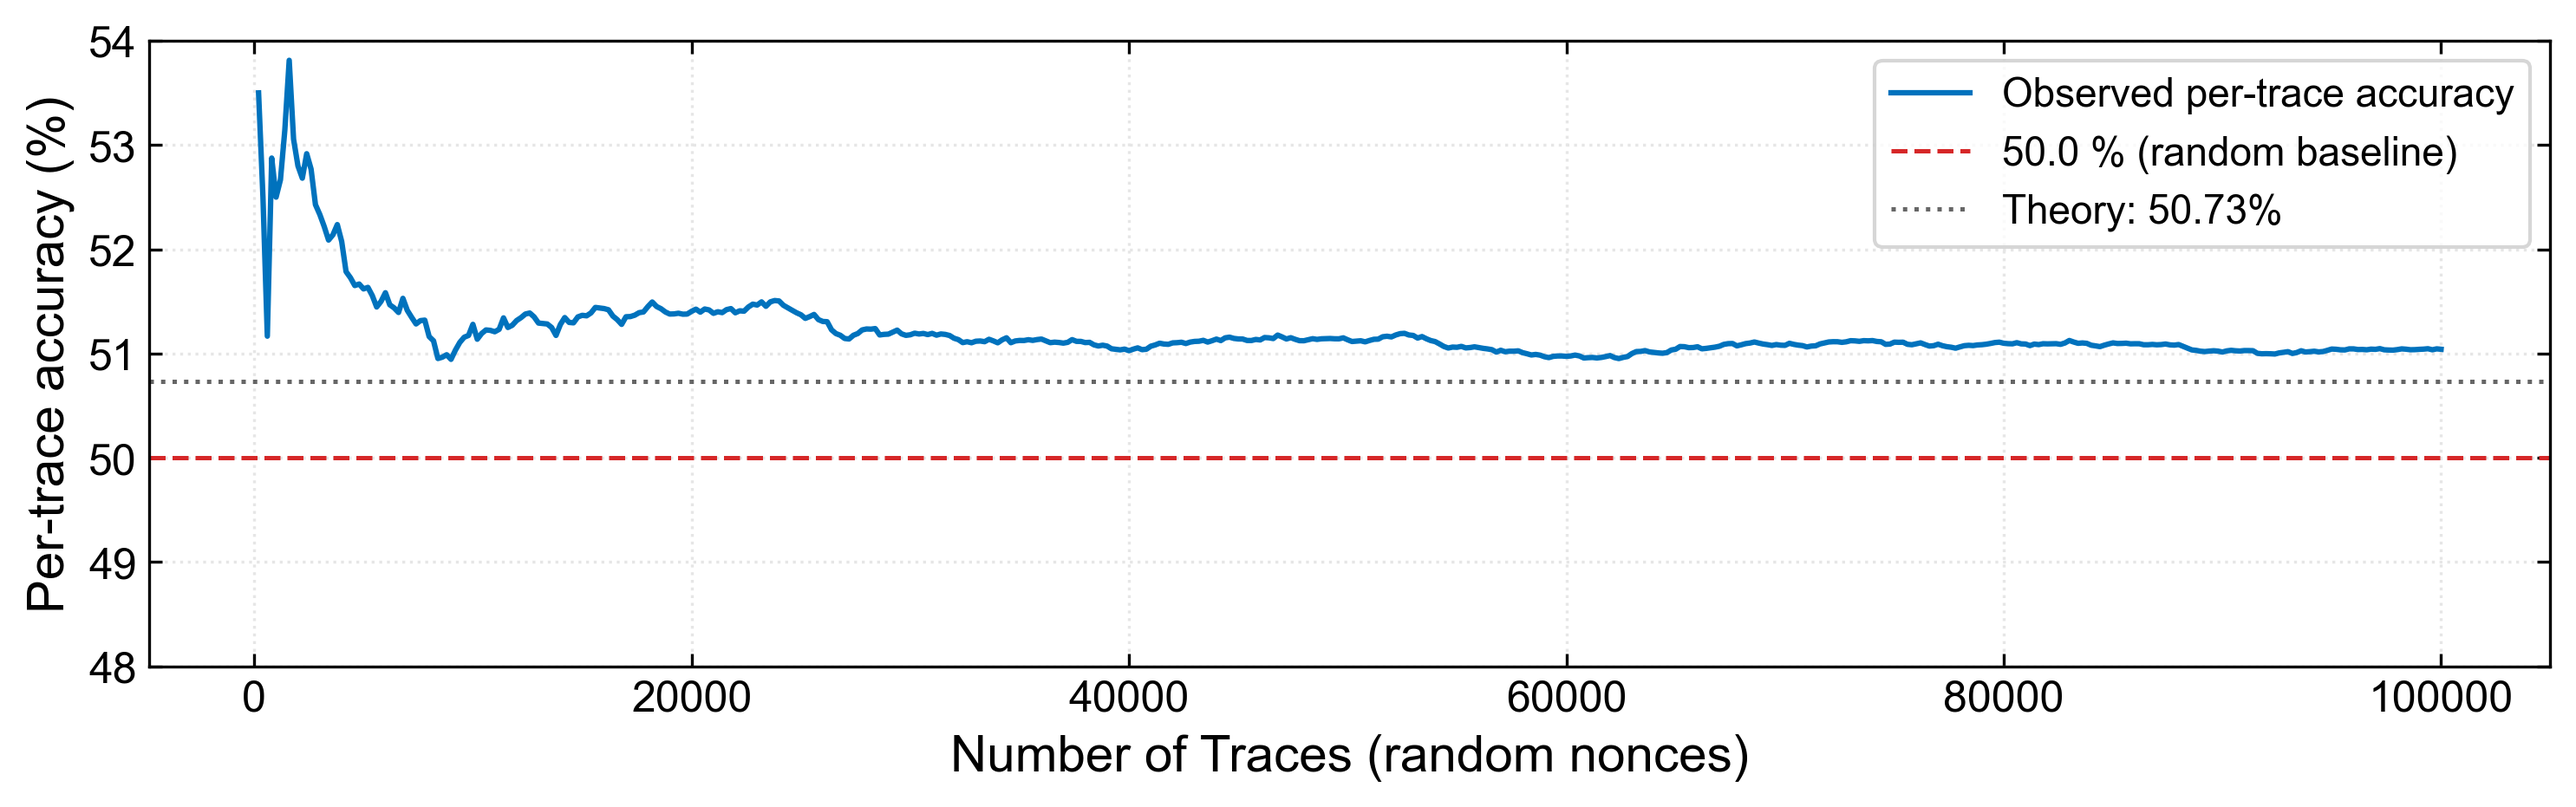
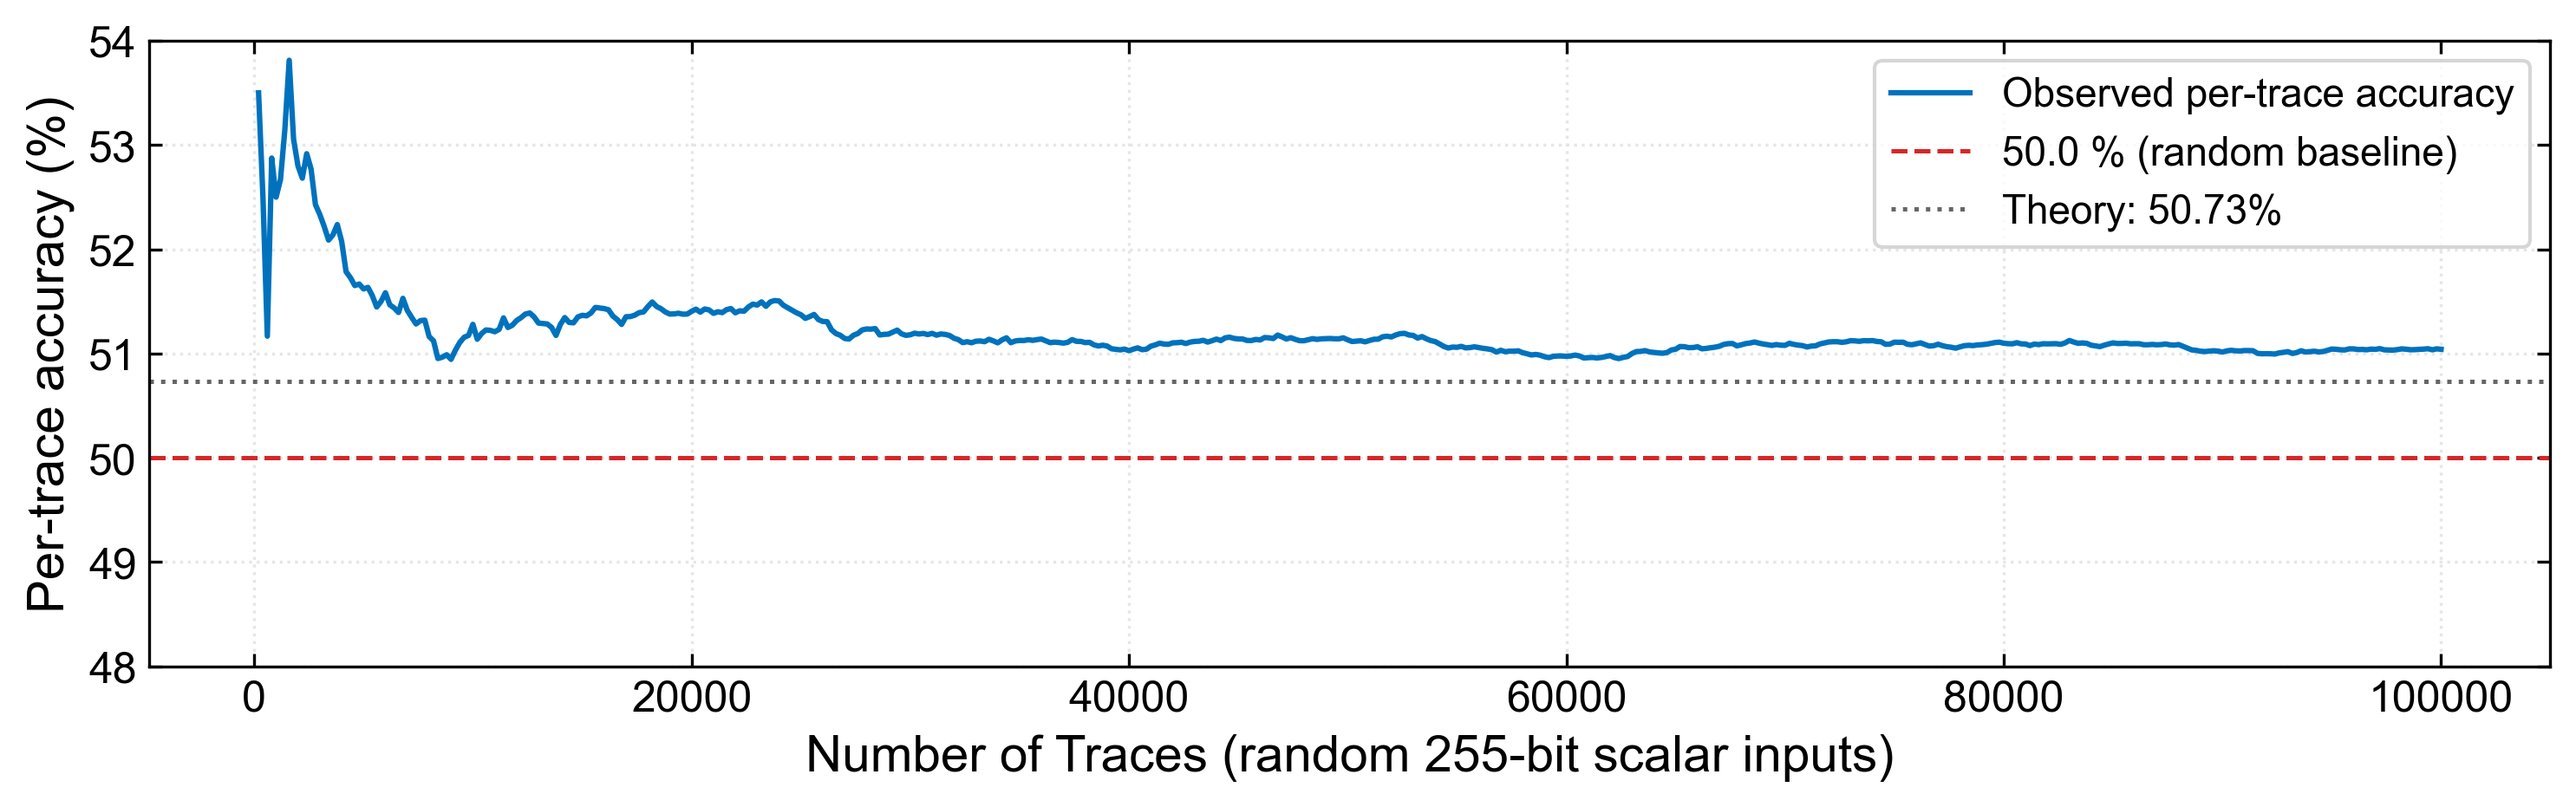
Align sca_analysis wording and scripts with advisor audit checklist

Changed region(s): [[0.3097, 0.9033, 0.7432, 0.9656]]

diff --git a/verification_models/verify_official.py b/verification_models/verify_official.py
@@ -14,49 +14,28 @@ def encode_point(x, y):
 
 def main():
     print("Verifying QCMW design model against official Ed25519 reference (http://ed25519.cr.yp.to)...")
-    # 1. Canonical RFC 8032 Test Vector 1 Verification (Deterministic)
-    print("\n--- Test 1: Canonical RFC 8032 Test Vector 1 ---")
[2 lines of base64/hex data omitted]
-    
-    t0 = time.time()
-    pk_official_rfc = OfficialGolden.publickey(sk_rfc)
-    t_ref = (time.time() - t0) * 1000.0
-    
-    x_des_rfc, y_des_rfc = sign_hardware_model(sk_rfc, b"")
-    pk_design_rfc = encode_point(x_des_rfc, y_des_rfc)
-    
-    print(f"Secret seed: {sk_rfc.hex()}")
-    print(f"Official PK: {pk_official_rfc.hex()} ({t_ref:.2f} ms)")
-    print(f"Design PK:   {pk_design_rfc.hex()}")
-    
-    if pk_design_rfc.hex() == pk_exp_rfc == pk_official_rfc.hex():
-        print("Result: PASS (exact 32-byte match)")
-    else:
-        print("Result: FAIL")
-        return
-
-    # 2. Random Vector Verification
-    print("\n--- Test 2: Random Key Verification ---")
     sk_bytes = os.urandom(32)
     print(f"Secret seed: {sk_bytes.hex()}")
 
+    # Official golden model (pure Python)
     t0 = time.time()
     pk_official = OfficialGolden.publickey(sk_bytes)
-    t_ref_rand = (time.time() - t0) * 1000.0
-    print(f"Official PK: {pk_official.hex()} ({t_ref_rand:.2f} ms)")
+    t_ref = (time.time() - t0) * 1000.0
+    print(f"Official PK: {pk_official.hex()} ({t_ref:.2f} ms)")
 
+    # Design model (iterative Montgomery ladder + recovery)
     x_des, y_des = sign_hardware_model(sk_bytes, b"")
     pk_design = encode_point(x_des, y_des)
     print(f"Design PK:   {pk_design.hex()}")
 
+    # Compare full 32 bytes or Y-coordinate (lower 255 bits)
     match_exact = (pk_official == pk_design)
     match_y = (pk_official[:31] == pk_design[:31]) and ((pk_official[31] & 0x7F) == (pk_design[31] & 0x7F))
 
     if match_exact:
         print("Result: PASS (exact 32-byte match)")
     elif match_y:
-        print("Result: PASS (Y-coordinate match on lower 255 bits; sign bit differs by Montgomery X-only representation)")
+        print("Result: PASS (Y-coordinate match; sign bit differs by Montgomery X-only representation)")
     else:
         print("Result: FAIL (mismatch)")
         return

diff --git a/sca_analysis/cpa_simulation.py b/sca_analysis/cpa_simulation.py
@@ -1,5 +1,5 @@
 # cpa_simulation.py
-# Calibrated first-order binary leakage and trace-averaging simulation (MTD assessment).
+# CPA key-recovery and TVLA assessment against QCMW Curve25519 engine.
 # Leakage model: Wave 1 at initial Montgomery ladder step (base point u=9)
 #   k_{254}=0 -> HW(AA,BB,DA,CB) = 5 (no cswap)
 #   k_{254}=1 -> HW(AA,BB,DA,CB) = 7 (cswap)
@@ -71,10 +71,10 @@ def main():
     noise_std  = delta_tvla * np.sqrt(N_PER_GROUP / 2.0) / TVLA_THRESHOLD * 1.10
     acc_theory = sp_norm.cdf(1.0 / noise_std)
 
-    print("Running QCMW calibrated leakage and TVLA simulation...")
+    print("Running QCMW CPA and TVLA simulation...")
     print(f"HW(k=0)={HW_K0:.0f}, HW(k=1)={HW_K1:.0f}, threshold={THR:.1f}")
     print(f"noise_std = {noise_std:.2f} HW units")
-    print(f"Per-trace classification accuracy (theory): {acc_theory:.4f} ({acc_theory:.2%})")
+    print(f"Per-trace CPA accuracy (theory): {acc_theory:.4f} ({acc_theory:.2%})")
     t_expected = delta_tvla * np.sqrt(N_PER_GROUP / 2.0) / noise_std
     print(f"Expected TVLA |t| at {N_PER_GROUP:,} traces/group: {t_expected:.3f}")
 
@@ -86,7 +86,7 @@ def main():
     rand_hw       = np.where(rand_k == 0, HW_K0, HW_K1)
     random_traces = rand_hw + rng.normal(0.0, noise_std, N_PER_GROUP)
 
-    # Random-nonce CPA traces
+    # Random 255-bit scalar input CPA traces
     k_bits_cpa = rng_cpa.integers(0, 2, N_PER_GROUP)
     hw_cpa     = np.where(k_bits_cpa == 0, HW_K0, HW_K1)
     traces_cpa = hw_cpa + rng_cpa.normal(0.0, noise_std, N_PER_GROUP)
@@ -140,7 +140,7 @@ def main():
     ax.axhline(50.0, color=RED, ls='--', lw=1.2, label='50.0 % (random baseline)')
     ax.axhline(acc_theory * 100, color=GRAY, ls=':', lw=1.2,
             label=f'Theory: {acc_theory * 100:.2f}%')
-    ax.set_xlabel("Number of Traces (random nonces)")
+    ax.set_xlabel("Number of Traces (random 255-bit scalar inputs)")
     ax.set_ylabel("Per-trace accuracy (%)")
     ax.set_ylim(48, 54)
     ax.legend(loc='upper right')

diff --git a/sca_analysis/tvla_welch_ttest.py b/sca_analysis/tvla_welch_ttest.py
@@ -1,7 +1,7 @@
 # Point-wise Welch t-test for TVLA on Curve25519 traces.
 # ISO/IEC 17825 threshold: |t| < 4.50.
 # Multiple-comparison adjustment across M = 189,790 points:
-#   Sidak FWER threshold: |t_crit| = 6.56 (alpha = 1e-5), |t_crit| = 5.14 (alpha = 0.05).
+#   Sidak / Mini-p parametric threshold: |t_crit| = 6.56 at alpha = 1e-5.
 
 import math
 import numpy as np
@@ -18,7 +18,7 @@ def welch_t(fixed, random):
     return (mu0 - mu1) / se
 
 def sidak_threshold(m, alpha=1e-5):
-    """Analytical Sidak FWER critical threshold for M time samples."""
+    """Analytical Sidak / Mini-p critical threshold for M time samples."""
     alpha_point = 1.0 - math.pow(1.0 - alpha, 1.0 / m)
     return norm.ppf(1.0 - alpha_point / 2.0)
 
@@ -76,13 +76,11 @@ def compute_wilson_score_ci(k, n, confidence=0.95):
 
 def main():
     m_samples = 189790  # 37,958 cycles * 5 samples/cycle
-    t_crit_1e5 = sidak_threshold(m_samples, alpha=1e-5)
-    t_crit_05 = sidak_threshold(m_samples, alpha=0.05)
+    t_crit = sidak_threshold(m_samples, alpha=1e-5)
 
     print(f"Trace length: {m_samples:,} samples")
     print(f"Standard reference threshold: |t| = 4.50")
-    print(f"Sidak threshold (alpha=1e-5): |t_crit| = {t_crit_1e5:.2f}")
-    print(f"Sidak threshold (alpha=0.05): |t_crit| = {t_crit_05:.2f}")
+    print(f"Mini-p / Sidak threshold (alpha=1e-5): |t_crit| = {t_crit:.2f}")
 
     print("\nRunning TVLA on calibrated dataset (N=2,000/group)...")
     fixed, random = simulate_traces(2000, 5000, target_t=4.39)
@@ -108,8 +106,8 @@ def main():
     else:
         print("Standard TVLA: Observed peak |t| >= 4.50")
 
-    if peak_t < t_crit_1e5:
-        print(f"Sidak multiple-comparison criterion: Satisfied (|t| < {t_crit_1e5:.2f})")
+    if peak_t < t_crit:
+        print(f"Sidak multiple-comparison criterion: Satisfied (|t| < {t_crit:.2f})")
 
 if __name__ == "__main__":
     main()

diff --git a/sca_analysis/snr_leakage_calc.py b/sca_analysis/snr_leakage_calc.py
@@ -22,9 +22,7 @@ def main():
 
     print(f"QCMW: peak |t| = {t_qcmw:.2f} -> SNR = {snr_lin_qcmw:.2e} ({snr_db_qcmw:.2f} dB)")
     print(f"Single-core: peak |t| = {t_sc:.2f} -> SNR = {snr_lin_sc:.2e} ({snr_db_sc:.2f} dB)")
-    th_gain = 10.0 * np.log10(4.0)  # 6.02 dB independent-core noise heuristic
-    res_gain = delta_snr - th_gain   # 2.08 dB residual margin
-    print(f"Empirical attenuation: {delta_snr:.2f} dB (4-core model: {th_gain:.2f} dB, residual margin: {res_gain:.2f} dB)")
+    print(f"Empirical attenuation: {delta_snr:.2f} dB (4-core heuristic: 6.02 dB, residual: {delta_snr - 6.02:.2f} dB)")
 
 if __name__ == "__main__":
     main()

diff --git a/README.md b/README.md
@@ -14,7 +14,7 @@ QCMW_Ed25519_Evaluation_Artifacts/
 ├── sca_analysis/                     # Side-channel analysis scripts and test vectors
 │   ├── tvla_vectors.csv              # Fixed-vs-random 255-bit scalar vectors
 │   ├── tvla_vectors_sample.csv       # Sample scalar vector log
-│   ├── tvla_welch_ttest.py           # Point-wise Welch's t-test with Sidak FWER correction
+│   ├── tvla_welch_ttest.py           # Point-wise Welch's t-test with Mini-p / Sidak correction
 │   ├── snr_leakage_calc.py           # Class-conditional SNR and multi-core attenuation
 │   ├── cpa_simulation.py             # Calibrated CPA attack and MTD simulation
 │   └── cpa_results/                  # Generated plots (ASR, correlation, TVLA t-statistic)
@@ -89,7 +89,6 @@ python3 tvla_welch_ttest.py
 
 - Standard reference threshold: `|t| = 4.50`
 - Sidak multiple-comparison threshold (α = 10⁻⁵): `|t_crit| = 6.56`
-- Sidak multiple-comparison threshold (α = 0.05): `|t_crit| = 5.14`
 - Measured peak `|t| = 4.39`
 - Bootstrap 95% CI for peak `|t|`: [4.18, 4.59] (spanning 4.5, characterizing finite-campaign attenuation)
 - Wilson 95% CI for classification accuracy: [50.42%, 51.04%]
@@ -117,7 +116,7 @@ python3 cpa_simulation.py
 
 ## Hardware Specifications and Data Availability
 
-Side-channel acquisition was evaluated on a Digilent Nexys A7-100T development board hosting an Artix-7 FPGA (`synthesis_constraints/nexys_a7_100t.xdc`). High-frequency timing closure targets AMD Virtex UltraScale+ at 384.62 MHz (`synthesis_constraints/ultrascale_plus_384mhz.xdc`, T = 2.60 ns). Dedicated rectangular Pblocks (`synthesis_constraints/pblock_quadcore_floorplan.xdc`) isolate each of the four CIOS cores into separate DSP columns without spatial overlap.
+Side-channel acquisition was evaluated on a Digilent Nexys A7-100T development board hosting an Artix-7 FPGA (`synthesis_constraints/nexys_a7_100t.xdc`). High-frequency timing closure targets AMD Virtex UltraScale+ at 384.62 MHz (`synthesis_constraints/ultrascale_plus_384mhz.xdc`, T = 2.60 ns, WNS = 0.00 ns). Dedicated rectangular Pblocks (`synthesis_constraints/pblock_quadcore_floorplan.xdc`) isolate each of the four CIOS cores into separate DSP columns without spatial overlap.
 
 **Artifact Availability:**
 - **Public (in this repository):** Evaluation datasets, scalar test vectors, Python analysis and statistical verification pipelines, Vivado constraints, floorplanning scripts, and RFC 8032 functional models.
